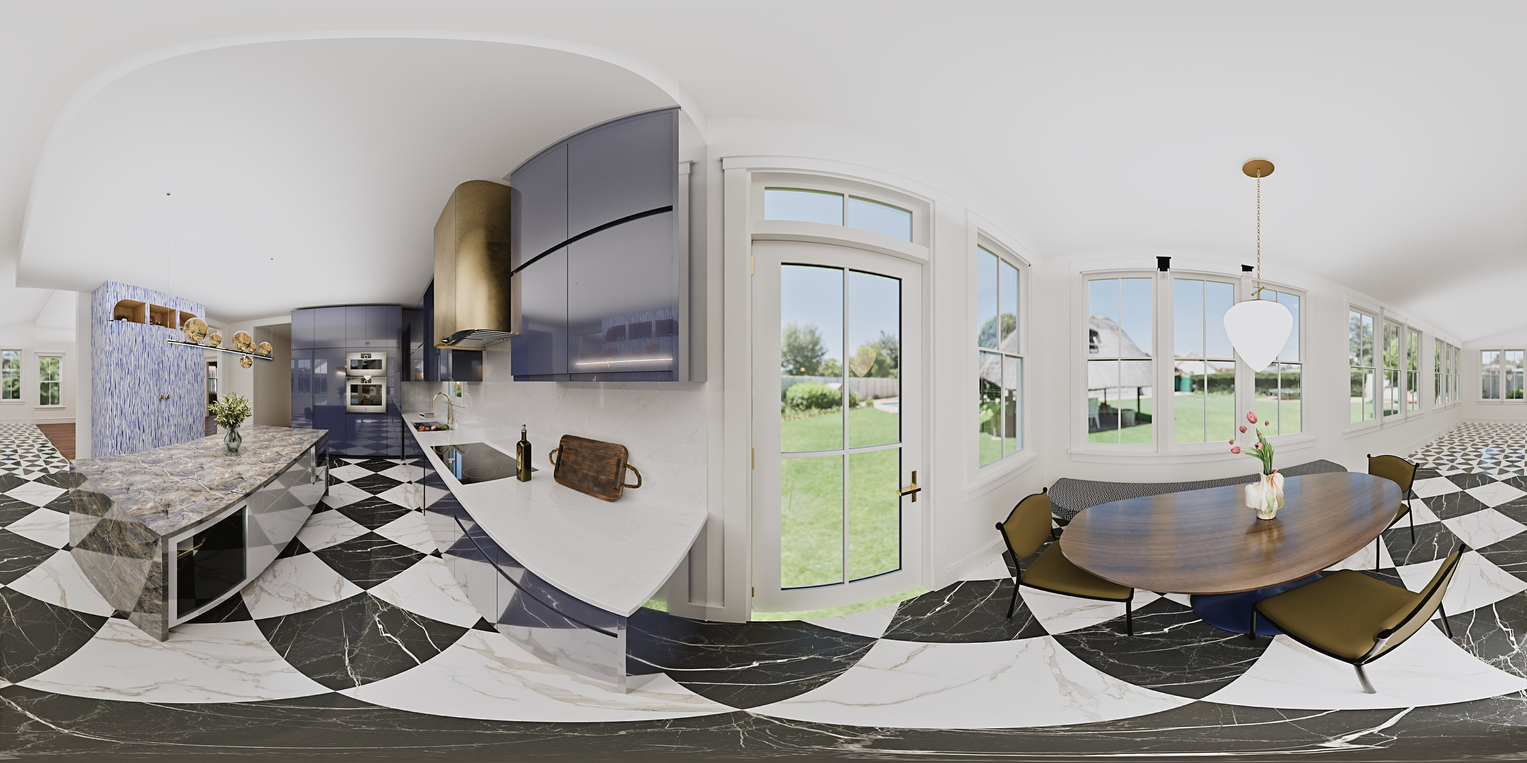
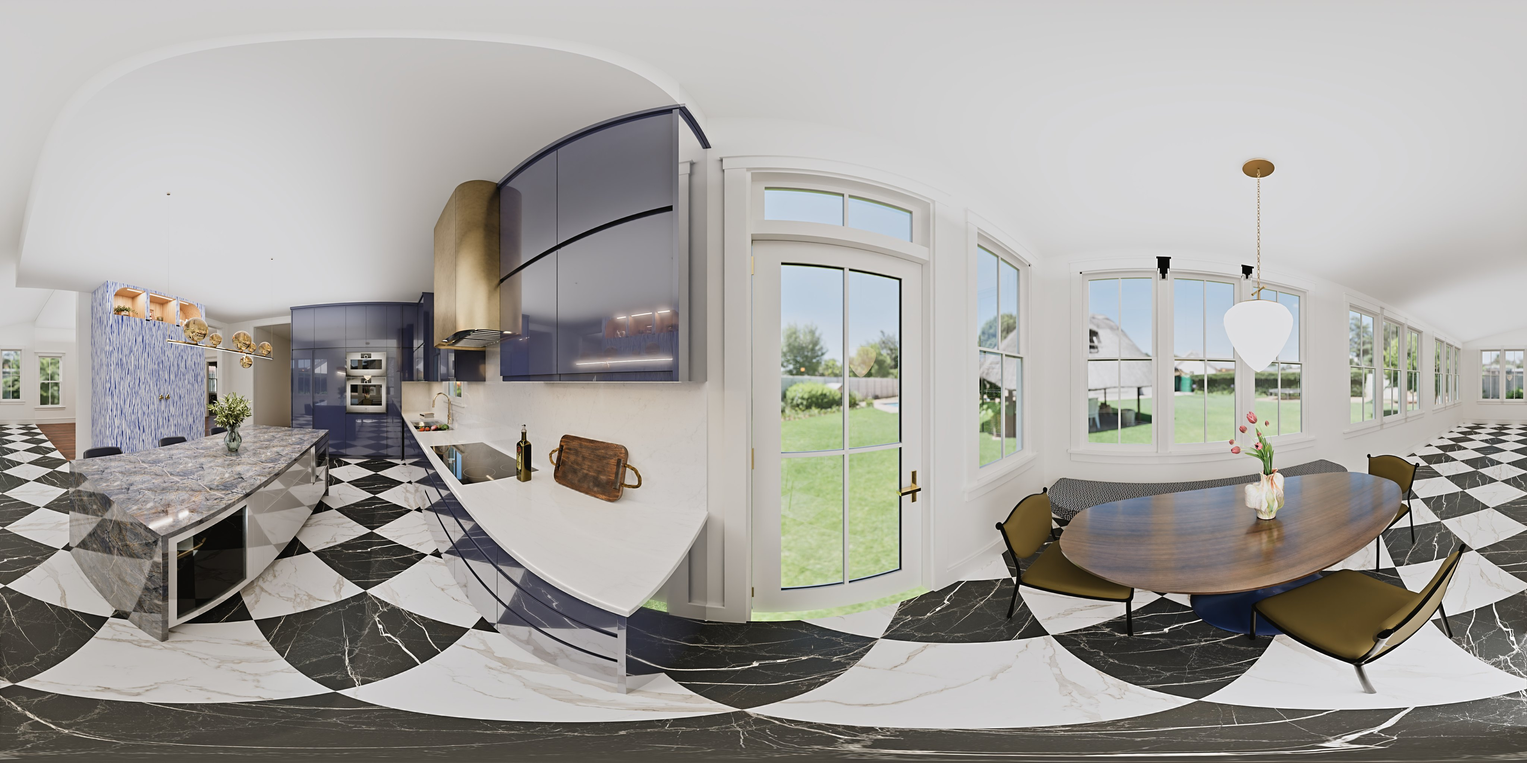
Add files via upload

diff --git a/tour.js b/tour.js
@@ -1,1 +1,1 @@
-window.TOUR = {"project": "629 Burdette St \u00b7 Kitchen", "default_node": "kitchen", "default_floor": "c_cobble", "default_doors": "closed", "floors": {"a_anabelle": "A - Anabelle St Laurent", "b_boldara": "B - Boldara Nero/Oro Checker", "c_cobble": "C - Cobble Brown"}, "doors": {"closed": "All closed", "all_open": "All appliances open"}, "client": {"name": "Maureen Stevens Design", "url": "https://www.maureenstevens.com/"}, "nodes": [{"id": "kitchen", "label": "Kitchen", "view": {"yaw": 55, "pitch": -8, "hfov": 105}, "links": [{"to": "island", "label": "Island", "yaw": 179.94, "pitch": -33.99}, {"to": "breakfast", "label": "Breakfast Nook", "yaw": 84.96, "pitch": -41.27}], "appliances": [{"id": "dishwasher", "label": "Dishwasher", "action": "toggle_doors:dishwasher_open", "yaw": -57.13, "pitch": -45.95, "visible": true}, {"id": "freezer", "label": "Freezer", "action": "toggle_doors:freezer_open", "yaw": -116.23, "pitch": -5.67, "visible": true}, {"id": "fridge", "label": "Refrigerator", "action": "toggle_doors:fridge_open", "yaw": -106.64, "pitch": -6.05, "visible": true}, {"id": "wine", "label": "Wine Fridge", "action": "toggle_doors:wine_open", "yaw": 119.89, "pitch": -44.9, "visible": true}], "panos": {"floor-a_anabelle__doors-closed": {"full": "pano_kitchen_floor-a_anabelle__doors-closed.jpg", "mobile": "pano_kitchen_floor-a_anabelle__doors-closed_m.jpg"}, "floor-a_anabelle__doors-all_open": {"full": "pano_kitchen_floor-a_anabelle__doors-all_open.jpg", "mobile": "pano_kitchen_floor-a_anabelle__doors-all_open_m.jpg"}, "floor-b_boldara__doors-closed": {"full": "pano_kitchen_floor-b_boldara__doors-closed.jpg", "mobile": "pano_kitchen_floor-b_boldara__doors-closed_m.jpg"}, "floor-b_boldara__doors-all_open": {"full": "pano_kitchen_floor-b_boldara__doors-all_open.jpg", "mobile": "pano_kitchen_floor-b_boldara__doors-all_open_m.jpg"}, "floor-c_cobble__doors-closed": {"full": "pano_kitchen_floor-c_cobble__doors-closed.jpg", "mobile": "pano_kitchen_floor-c_cobble__doors-closed_m.jpg"}, "floor-c_cobble__doors-all_open": {"full": "pano_kitchen_floor-c_cobble__doors-all_open.jpg", "mobile": "pano_kitchen_floor-c_cobble__doors-all_open_m.jpg"}}, "photos": [{"still": "Still_01_Hero", "label": "Island & range - hero", "yaw": 179.86, "pitch": -30.34}, {"still": "Still_02_Range", "label": "Sink-to-range run", "yaw": 0.0, "pitch": -34.97}, {"still": "Still_03_Sink_Window", "label": "Faucet & window", "yaw": -57.64, "pitch": -11.66}, {"still": "Still_05_Hood_Detail", "label": "Brass hood & cooktop", "yaw": 0.0, "pitch": 39.81}, {"still": "Still_09_Tall_Wall", "label": "Fridge & Gaggenau oven wall", "yaw": -106.57, "pitch": -5.03}, {"still": "Still_10_Nook_to_Kitchen", "label": "From the nook - whole kitchen", "yaw": 138.64, "pitch": -23.72}, {"still": "Still_15_Wardrobe", "label": "Wardrobe - full elevation", "yaw": -165.66, "pitch": 0.0}]}, {"id": "island", "label": "Island", "view": {"yaw": 0, "pitch": -6, "hfov": 100}, "links": [{"to": "kitchen", "label": "Kitchen", "yaw": -0.06, "pitch": -33.99}, {"to": "breakfast", "label": "Breakfast Nook", "yaw": 35.59, "pitch": -27.18}], "appliances": [{"id": "freezer", "label": "Freezer", "action": "toggle_doors:freezer_open", "yaw": -71.83, "pitch": -6.0, "visible": true}, {"id": "fridge", "label": "Refrigerator", "action": "toggle_doors:fridge_open", "yaw": -62.45, "pitch": -5.6, "visible": true}], "panos": {"floor-a_anabelle__doors-closed": {"full": "pano_island_floor-a_anabelle__doors-closed.jpg", "mobile": "pano_island_floor-a_anabelle__doors-closed_m.jpg"}, "floor-a_anabelle__doors-all_open": {"full": "pano_island_floor-a_anabelle__doors-all_open.jpg", "mobile": "pano_island_floor-a_anabelle__doors-all_open_m.jpg"}, "floor-b_boldara__doors-closed": {"full": "pano_island_floor-b_boldara__doors-closed.jpg", "mobile": "pano_island_floor-b_boldara__doors-closed_m.jpg"}, "floor-b_boldara__doors-all_open": {"full": "pano_island_floor-b_boldara__doors-all_open.jpg", "mobile": "pano_island_floor-b_boldara__doors-all_open_m.jpg"}, "floor-c_cobble__doors-closed": {"full": "pano_island_floor-c_cobble__doors-closed.jpg", "mobile": "pano_island_floor-c_cobble__doors-closed_m.jpg"}, "floor-c_cobble__doors-all_open": {"full": "pano_island_floor-c_cobble__doors-all_open.jpg", "mobile": "pano_island_floor-c_cobble__doors-all_open_m.jpg"}}, "photos": [{"still": "Still_03_Sink_Window", "label": "Faucet & window", "yaw": -25.68, "pitch": -6.03}, {"still": "Still_05_Hood_Detail", "label": "Brass hood & cooktop", "yaw": -0.05, "pitch": 10.04}, {"still": "Still_06_Stools_Detail", "label": "Curved stool backs", "yaw": -0.44, "pitch": -67.25}, {"still": "Still_09_Tall_Wall", "label": "Fridge & Gaggenau oven wall", "yaw": -62.56, "pitch": -4.65}, {"still": "Still_10_Nook_to_Kitchen", "label": "From the nook - whole kitchen", "yaw": 36.87, "pitch": -21.8}, {"still": "Still_15_Wardrobe", "label": "Wardrobe - full elevation", "yaw": -133.03, "pitch": 0.0}]}, {"id": "breakfast", "label": "Breakfast Nook", "view": {"yaw": 119, "pitch": -8, "hfov": 100}, "links": [{"to": "kitchen", "label": "Kitchen", "yaw": -95.04, "pitch": -41.27}, {"to": "island", "label": "Island", "yaw": -144.41, "pitch": -27.18}], "appliances": [{"id": "dishwasher", "label": "Dishwasher", "action": "toggle_doors:dishwasher_open", "yaw": -81.52, "pitch": -21.47, "visible": true}, {"id": "freezer", "label": "Freezer", "action": "toggle_doors:freezer_open", "yaw": -108.6, "pitch": -3.69, "visible": true}, {"id": "fridge", "label": "Refrigerator", "action": "toggle_doors:fridge_open", "yaw": -102.27, "pitch": -3.8, "visible": true}, {"id": "wine", "label": "Wine Fridge", "action": "toggle_doors:wine_open", "yaw": -127.98, "pitch": -43.43, "visible": true}], "panos": {"floor-a_anabelle__doors-closed": {"full": "pano_breakfast_floor-a_anabelle__doors-closed.jpg", "mobile": "pano_breakfast_floor-a_anabelle__doors-closed_m.jpg"}, "floor-a_anabelle__doors-all_open": {"full": "pano_breakfast_floor-a_anabelle__doors-all_open.jpg", "mobile": "pano_breakfast_floor-a_anabelle__doors-all_open_m.jpg"}, "floor-b_boldara__doors-closed": {"full": "pano_breakfast_floor-b_boldara__doors-closed.jpg", "mobile": "pano_breakfast_floor-b_boldara__doors-closed_m.jpg"}, "floor-b_boldara__doors-all_open": {"full": "pano_breakfast_floor-b_boldara__doors-all_open.jpg", "mobile": "pano_breakfast_floor-b_boldara__doors-all_open_m.jpg"}, "floor-c_cobble__doors-closed": {"full": "pano_breakfast_floor-c_cobble__doors-closed.jpg", "mobile": "pano_breakfast_floor-c_cobble__doors-closed_m.jpg"}, "floor-c_cobble__doors-all_open": {"full": "pano_breakfast_floor-c_cobble__doors-all_open.jpg", "mobile": "pano_breakfast_floor-c_cobble__doors-all_open_m.jpg"}}, "photos": [{"still": "Still_01_Hero", "label": "Island & range - hero", "yaw": -124.65, "pitch": -16.19}, {"still": "Still_02_Range", "label": "Sink-to-range run", "yaw": -67.94, "pitch": -17.73}, {"still": "Still_03_Sink_Window", "label": "Faucet & window", "yaw": -75.75, "pitch": -6.41}, {"still": "Still_04_Breakfast", "label": "Breakfast nook", "yaw": 118.61, "pitch": -25.59}, {"still": "Still_05_Hood_Detail", "label": "Brass hood & cooktop", "yaw": -75.19, "pitch": 15.85}, {"still": "Still_09_Tall_Wall", "label": "Fridge & Gaggenau oven wall", "yaw": -102.24, "pitch": -3.16}, {"still": "Still_10_Nook_to_Kitchen", "label": "From the nook - whole kitchen", "yaw": -145.75, "pitch": -22.88}, {"still": "Still_15_Wardrobe", "label": "Wardrobe - full elevation", "yaw": -141.45, "pitch": 0.0}]}], "stills": [{"id": "Still_01_Hero", "caption": "The Kitchen", "src": "still_Still_01_Hero.jpg", "thumb": "thumb_Still_01_Hero.jpg", "w": 2400, "h": 1600}, {"id": "Still_02_Range", "caption": "Sink to Range", "src": "still_Still_02_Range.jpg", "thumb": "thumb_Still_02_Range.jpg", "w": 2400, "h": 1600}, {"id": "Still_03_Sink_Window", "caption": "Workstation Sink", "src": "still_Still_03_Sink_Window.jpg", "thumb": "thumb_Still_03_Sink_Window.jpg", "w": 1920, "h": 2400}, {"id": "Still_04_Breakfast", "caption": "Breakfast Nook", "src": "still_Still_04_Breakfast.jpg", "thumb": "thumb_Still_04_Breakfast.jpg", "w": 1600, "h": 2400}, {"id": "Still_05_Hood_Detail", "caption": "Brass Hood", "src": "still_Still_05_Hood_Detail.jpg", "thumb": "thumb_Still_05_Hood_Detail.jpg", "w": 1920, "h": 2400}, {"id": "Still_06_Stools_Detail", "caption": "Bar Stools", "src": "still_Still_06_Stools_Detail.jpg", "thumb": "thumb_Still_06_Stools_Detail.jpg", "w": 1600, "h": 2400}, {"id": "Still_07_Aerial", "caption": "Overview", "src": "still_Still_07_Aerial.jpg", "thumb": "thumb_Still_07_Aerial.jpg", "w": 2400, "h": 1600}, {"id": "Still_08_Plan", "caption": "Plan View", "src": "still_Still_08_Plan.jpg", "thumb": "thumb_Still_08_Plan.jpg", "w": 2400, "h": 1600}, {"id": "Still_09_Tall_Wall", "caption": "Refrigerator & Ovens", "src": "still_Still_09_Tall_Wall.jpg", "thumb": "thumb_Still_09_Tall_Wall.jpg", "w": 1600, "h": 2400}, {"id": "Still_10_Nook_to_Kitchen", "caption": "From the Nook", "src": "still_Still_10_Nook_to_Kitchen.jpg", "thumb": "thumb_Still_10_Nook_to_Kitchen.jpg", "w": 2400, "h": 1600}, {"id": "Still_11_Fridge_Freezer_Open", "caption": "Refrigerator & Freezer", "src": "still_Still_11_Fridge_Freezer_Open.jpg", "thumb": "thumb_Still_11_Fridge_Freezer_Open.jpg", "w": 2400, "h": 1600}, {"id": "Still_12_Wine_Open", "caption": "Wine Fridge", "src": "still_Still_12_Wine_Open.jpg", "thumb": "thumb_Still_12_Wine_Open.jpg", "w": 1600, "h": 2400}, {"id": "Still_13_Dishwasher_Open", "caption": "Dishwasher", "src": "still_Still_13_Dishwasher_Open.jpg", "thumb": "thumb_Still_13_Dishwasher_Open.jpg", "w": 1600, "h": 2400}, {"id": "Still_14_Aerial_All_Open", "caption": "Overview - Appliances Open", "src": "still_Still_14_Aerial_All_Open.jpg", "thumb": "thumb_Still_14_Aerial_All_Open.jpg", "w": 2400, "h": 1600}, {"id": "Still_15_Wardrobe", "caption": "Wardrobe", "src": "still_Still_15_Wardrobe.jpg", "thumb": "thumb_Still_15_Wardrobe.jpg", "w": 1920, "h": 2400}]};
+window.TOUR = {"project": "629 Burdette St \u00b7 Kitchen", "default_node": "kitchen", "default_floor": "c_cobble", "default_doors": "closed", "floors": {"a_anabelle": "A - Anabelle St Laurent", "b_boldara": "B - Boldara Nero/Oro Checker", "c_cobble": "C - Cobble Brown"}, "doors": {"closed": "All closed", "all_open": "All appliances open"}, "client": {"name": "Maureen Stevens Design", "url": "https://www.maureenstevens.com/"}, "times": ["day", "night"], "nodes": [{"id": "kitchen", "label": "Kitchen", "view": {"yaw": 55, "pitch": -8, "hfov": 105}, "links": [{"to": "island", "label": "Island", "yaw": 179.94, "pitch": -33.99}, {"to": "breakfast", "label": "Breakfast Nook", "yaw": 84.96, "pitch": -41.27}], "appliances": [{"id": "dishwasher", "label": "Dishwasher", "action": "toggle_doors:dishwasher_open", "yaw": -57.13, "pitch": -45.95, "visible": true}, {"id": "freezer", "label": "Freezer", "action": "toggle_doors:freezer_open", "yaw": -116.23, "pitch": -5.67, "visible": true}, {"id": "fridge", "label": "Refrigerator", "action": "toggle_doors:fridge_open", "yaw": -106.64, "pitch": -6.05, "visible": true}, {"id": "wine", "label": "Wine Fridge", "action": "toggle_doors:wine_open", "yaw": 119.89, "pitch": -44.9, "visible": true}], "panos": {"floor-a_anabelle__doors-closed": {"full": "pano_kitchen_floor-a_anabelle__doors-closed.jpg", "mobile": "pano_kitchen_floor-a_anabelle__doors-closed_m.jpg", "night": {"full": "pano_kitchen_floor-a_anabelle__doors-closed_night.jpg", "mobile": "pano_kitchen_floor-a_anabelle__doors-closed_night_m.jpg"}}, "floor-a_anabelle__doors-all_open": {"full": "pano_kitchen_floor-a_anabelle__doors-all_open.jpg", "mobile": "pano_kitchen_floor-a_anabelle__doors-all_open_m.jpg", "night": {"full": "pano_kitchen_floor-a_anabelle__doors-all_open_night.jpg", "mobile": "pano_kitchen_floor-a_anabelle__doors-all_open_night_m.jpg"}}, "floor-b_boldara__doors-closed": {"full": "pano_kitchen_floor-b_boldara__doors-closed.jpg", "mobile": "pano_kitchen_floor-b_boldara__doors-closed_m.jpg", "night": {"full": "pano_kitchen_floor-b_boldara__doors-closed_night.jpg", "mobile": "pano_kitchen_floor-b_boldara__doors-closed_night_m.jpg"}}, "floor-b_boldara__doors-all_open": {"full": "pano_kitchen_floor-b_boldara__doors-all_open.jpg", "mobile": "pano_kitchen_floor-b_boldara__doors-all_open_m.jpg", "night": {"full": "pano_kitchen_floor-b_boldara__doors-all_open_night.jpg", "mobile": "pano_kitchen_floor-b_boldara__doors-all_open_night_m.jpg"}}, "floor-c_cobble__doors-closed": {"full": "pano_kitchen_floor-c_cobble__doors-closed.jpg", "mobile": "pano_kitchen_floor-c_cobble__doors-closed_m.jpg", "night": {"full": "pano_kitchen_floor-c_cobble__doors-closed_night.jpg", "mobile": "pano_kitchen_floor-c_cobble__doors-closed_night_m.jpg"}}, "floor-c_cobble__doors-all_open": {"full": "pano_kitchen_floor-c_cobble__doors-all_open.jpg", "mobile": "pano_kitchen_floor-c_cobble__doors-all_open_m.jpg", "night": {"full": "pano_kitchen_floor-c_cobble__doors-all_open_night.jpg", "mobile": "pano_kitchen_floor-c_cobble__doors-all_open_night_m.jpg"}}}, "photos": [{"still": "Still_01_Hero", "label": "Island & range - hero", "yaw": 179.86, "pitch": -30.34}, {"still": "Still_02_Range", "label": "Sink-to-range run", "yaw": 0.0, "pitch": -34.97}, {"still": "Still_03_Sink_Window", "label": "Faucet & window", "yaw": -57.64, "pitch": -11.66}, {"still": "Still_05_Hood_Detail", "label": "Brass hood & cooktop", "yaw": 0.0, "pitch": 39.81}, {"still": "Still_09_Tall_Wall", "label": "Fridge & Gaggenau oven wall", "yaw": -106.57, "pitch": -5.03}, {"still": "Still_10_Nook_to_Kitchen", "label": "From the nook - whole kitchen", "yaw": 138.64, "pitch": -23.72}, {"still": "Still_15_Wardrobe", "label": "Wardrobe - full elevation", "yaw": -165.66, "pitch": 0.0}]}, {"id": "island", "label": "Island", "view": {"yaw": 0, "pitch": -6, "hfov": 100}, "links": [{"to": "kitchen", "label": "Kitchen", "yaw": -0.06, "pitch": -33.99}, {"to": "breakfast", "label": "Breakfast Nook", "yaw": 35.59, "pitch": -27.18}], "appliances": [{"id": "freezer", "label": "Freezer", "action": "toggle_doors:freezer_open", "yaw": -71.83, "pitch": -6.0, "visible": true}, {"id": "fridge", "label": "Refrigerator", "action": "toggle_doors:fridge_open", "yaw": -62.45, "pitch": -5.6, "visible": true}], "panos": {"floor-a_anabelle__doors-closed": {"full": "pano_island_floor-a_anabelle__doors-closed.jpg", "mobile": "pano_island_floor-a_anabelle__doors-closed_m.jpg", "night": {"full": "pano_island_floor-a_anabelle__doors-closed_night.jpg", "mobile": "pano_island_floor-a_anabelle__doors-closed_night_m.jpg"}}, "floor-a_anabelle__doors-all_open": {"full": "pano_island_floor-a_anabelle__doors-all_open.jpg", "mobile": "pano_island_floor-a_anabelle__doors-all_open_m.jpg", "night": {"full": "pano_island_floor-a_anabelle__doors-all_open_night.jpg", "mobile": "pano_island_floor-a_anabelle__doors-all_open_night_m.jpg"}}, "floor-b_boldara__doors-closed": {"full": "pano_island_floor-b_boldara__doors-closed.jpg", "mobile": "pano_island_floor-b_boldara__doors-closed_m.jpg", "night": {"full": "pano_island_floor-b_boldara__doors-closed_night.jpg", "mobile": "pano_island_floor-b_boldara__doors-closed_night_m.jpg"}}, "floor-b_boldara__doors-all_open": {"full": "pano_island_floor-b_boldara__doors-all_open.jpg", "mobile": "pano_island_floor-b_boldara__doors-all_open_m.jpg", "night": {"full": "pano_island_floor-b_boldara__doors-all_open_night.jpg", "mobile": "pano_island_floor-b_boldara__doors-all_open_night_m.jpg"}}, "floor-c_cobble__doors-closed": {"full": "pano_island_floor-c_cobble__doors-closed.jpg", "mobile": "pano_island_floor-c_cobble__doors-closed_m.jpg", "night": {"full": "pano_island_floor-c_cobble__doors-closed_night.jpg", "mobile": "pano_island_floor-c_cobble__doors-closed_night_m.jpg"}}, "floor-c_cobble__doors-all_open": {"full": "pano_island_floor-c_cobble__doors-all_open.jpg", "mobile": "pano_island_floor-c_cobble__doors-all_open_m.jpg", "night": {"full": "pano_island_floor-c_cobble__doors-all_open_night.jpg", "mobile": "pano_island_floor-c_cobble__doors-all_open_night_m.jpg"}}}, "photos": [{"still": "Still_03_Sink_Window", "label": "Faucet & window", "yaw": -25.68, "pitch": -6.03}, {"still": "Still_05_Hood_Detail", "label": "Brass hood & cooktop", "yaw": -0.05, "pitch": 10.04}, {"still": "Still_09_Tall_Wall", "label": "Fridge & Gaggenau oven wall", "yaw": -62.56, "pitch": -4.65}, {"still": "Still_10_Nook_to_Kitchen", "label": "From the nook - whole kitchen", "yaw": 36.87, "pitch": -21.8}, {"still": "Still_15_Wardrobe", "label": "Wardrobe - full elevation", "yaw": -133.03, "pitch": 0.0}]}, {"id": "breakfast", "label": "Breakfast Nook", "view": {"yaw": 119, "pitch": -8, "hfov": 100}, "links": [{"to": "kitchen", "label": "Kitchen", "yaw": -95.04, "pitch": -41.27}, {"to": "island", "label": "Island", "yaw": -144.41, "pitch": -27.18}], "appliances": [{"id": "dishwasher", "label": "Dishwasher", "action": "toggle_doors:dishwasher_open", "yaw": -81.52, "pitch": -21.47, "visible": true}, {"id": "freezer", "label": "Freezer", "action": "toggle_doors:freezer_open", "yaw": -108.6, "pitch": -3.69, "visible": true}, {"id": "fridge", "label": "Refrigerator", "action": "toggle_doors:fridge_open", "yaw": -102.27, "pitch": -3.8, "visible": true}, {"id": "wine", "label": "Wine Fridge", "action": "toggle_doors:wine_open", "yaw": -127.98, "pitch": -43.43, "visible": true}], "panos": {"floor-a_anabelle__doors-closed": {"full": "pano_breakfast_floor-a_anabelle__doors-closed.jpg", "mobile": "pano_breakfast_floor-a_anabelle__doors-closed_m.jpg", "night": {"full": "pano_breakfast_floor-a_anabelle__doors-closed_night.jpg", "mobile": "pano_breakfast_floor-a_anabelle__doors-closed_night_m.jpg"}}, "floor-a_anabelle__doors-all_open": {"full": "pano_breakfast_floor-a_anabelle__doors-all_open.jpg", "mobile": "pano_breakfast_floor-a_anabelle__doors-all_open_m.jpg", "night": {"full": "pano_breakfast_floor-a_anabelle__doors-all_open_night.jpg", "mobile": "pano_breakfast_floor-a_anabelle__doors-all_open_night_m.jpg"}}, "floor-b_boldara__doors-closed": {"full": "pano_breakfast_floor-b_boldara__doors-closed.jpg", "mobile": "pano_breakfast_floor-b_boldara__doors-closed_m.jpg", "night": {"full": "pano_breakfast_floor-b_boldara__doors-closed_night.jpg", "mobile": "pano_breakfast_floor-b_boldara__doors-closed_night_m.jpg"}}, "floor-b_boldara__doors-all_open": {"full": "pano_breakfast_floor-b_boldara__doors-all_open.jpg", "mobile": "pano_breakfast_floor-b_boldara__doors-all_open_m.jpg", "night": {"full": "pano_breakfast_floor-b_boldara__doors-all_open_night.jpg", "mobile": "pano_breakfast_floor-b_boldara__doors-all_open_night_m.jpg"}}, "floor-c_cobble__doors-closed": {"full": "pano_breakfast_floor-c_cobble__doors-closed.jpg", "mobile": "pano_breakfast_floor-c_cobble__doors-closed_m.jpg", "night": {"full": "pano_breakfast_floor-c_cobble__doors-closed_night.jpg", "mobile": "pano_breakfast_floor-c_cobble__doors-closed_night_m.jpg"}}, "floor-c_cobble__doors-all_open": {"full": "pano_breakfast_floor-c_cobble__doors-all_open.jpg", "mobile": "pano_breakfast_floor-c_cobble__doors-all_open_m.jpg", "night": {"full": "pano_breakfast_floor-c_cobble__doors-all_open_night.jpg", "mobile": "pano_breakfast_floor-c_cobble__doors-all_open_night_m.jpg"}}}, "photos": [{"still": "Still_01_Hero", "label": "Island & range - hero", "yaw": -124.65, "pitch": -16.19}, {"still": "Still_02_Range", "label": "Sink-to-range run", "yaw": -67.94, "pitch": -17.73}, {"still": "Still_03_Sink_Window", "label": "Faucet & window", "yaw": -75.75, "pitch": -6.41}, {"still": "Still_04_Breakfast", "label": "Breakfast nook", "yaw": 118.61, "pitch": -25.59}, {"still": "Still_05_Hood_Detail", "label": "Brass hood & cooktop", "yaw": -75.19, "pitch": 15.85}, {"still": "Still_09_Tall_Wall", "label": "Fridge & Gaggenau oven wall", "yaw": -102.24, "pitch": -3.16}, {"still": "Still_10_Nook_to_Kitchen", "label": "From the nook - whole kitchen", "yaw": -145.75, "pitch": -22.88}, {"still": "Still_15_Wardrobe", "label": "Wardrobe - full elevation", "yaw": -141.45, "pitch": 0.0}]}], "stills": [{"id": "Still_01_Hero", "caption": "The Kitchen", "src": "still_Still_01_Hero.jpg", "thumb": "thumb_Still_01_Hero.jpg", "w": 2400, "h": 1600}, {"id": "Still_02_Range", "caption": "Sink to Range", "src": "still_Still_02_Range.jpg", "thumb": "thumb_Still_02_Range.jpg", "w": 2400, "h": 1600}, {"id": "Still_03_Sink_Window", "caption": "Workstation Sink", "src": "still_Still_03_Sink_Window.jpg", "thumb": "thumb_Still_03_Sink_Window.jpg", "w": 1920, "h": 2400}, {"id": "Still_04_Breakfast", "caption": "Breakfast Nook", "src": "still_Still_04_Breakfast.jpg", "thumb": "thumb_Still_04_Breakfast.jpg", "w": 1600, "h": 2400}, {"id": "Still_05_Hood_Detail", "caption": "Brass Hood", "src": "still_Still_05_Hood_Detail.jpg", "thumb": "thumb_Still_05_Hood_Detail.jpg", "w": 1920, "h": 2400}, {"id": "Still_06_Stools_Detail", "caption": "Bar Stools", "src": "still_Still_06_Stools_Detail.jpg", "thumb": "thumb_Still_06_Stools_Detail.jpg", "w": 1600, "h": 2400}, {"id": "Still_07_Aerial", "caption": "Overview", "src": "still_Still_07_Aerial.jpg", "thumb": "thumb_Still_07_Aerial.jpg", "w": 2400, "h": 1600}, {"id": "Still_08_Plan", "caption": "Plan View", "src": "still_Still_08_Plan.jpg", "thumb": "thumb_Still_08_Plan.jpg", "w": 2400, "h": 1600}, {"id": "Still_09_Tall_Wall", "caption": "Refrigerator & Ovens", "src": "still_Still_09_Tall_Wall.jpg", "thumb": "thumb_Still_09_Tall_Wall.jpg", "w": 1600, "h": 2400}, {"id": "Still_10_Nook_to_Kitchen", "caption": "From the Nook", "src": "still_Still_10_Nook_to_Kitchen.jpg", "thumb": "thumb_Still_10_Nook_to_Kitchen.jpg", "w": 2400, "h": 1600}, {"id": "Still_11_Fridge_Freezer_Open", "caption": "Refrigerator & Freezer", "src": "still_Still_11_Fridge_Freezer_Open.jpg", "thumb": "thumb_Still_11_Fridge_Freezer_Open.jpg", "w": 2400, "h": 1600}, {"id": "Still_12_Wine_Open", "caption": "Wine Fridge", "src": "still_Still_12_Wine_Open.jpg", "thumb": "thumb_Still_12_Wine_Open.jpg", "w": 1600, "h": 2400}, {"id": "Still_13_Dishwasher_Open", "caption": "Dishwasher", "src": "still_Still_13_Dishwasher_Open.jpg", "thumb": "thumb_Still_13_Dishwasher_Open.jpg", "w": 1600, "h": 2400}, {"id": "Still_14_Aerial_All_Open", "caption": "Overview - Appliances Open", "src": "still_Still_14_Aerial_All_Open.jpg", "thumb": "thumb_Still_14_Aerial_All_Open.jpg", "w": 2400, "h": 1600}, {"id": "Still_15_Wardrobe", "caption": "Wardrobe", "src": "still_Still_15_Wardrobe.jpg", "thumb": "thumb_Still_15_Wardrobe.jpg", "w": 1920, "h": 2400}]};

diff --git a/index.html b/index.html
@@ -166,7 +166,7 @@
 </section>
 
 <div class="title ui"><h2>629 Burdette St</h2><p>Kitchen · 360° tour</p></div>
-<div class="hint ui" id="hint">Drag to look around · circles move you · gold dots open the appliances · camera icons show photos</div>
+<div class="hint ui" id="hint">Drag to look around · circles move you · gold dots open the appliances · camera icons show photos · switch Day / Night below</div>
 <div class="loc-name" id="locname"></div>
 
 <div class="topbtns ui">
@@ -180,6 +180,7 @@
   <div class="row"><span class="lbl">Location</span><div class="seg" id="segNode"></div></div>
   <div class="row"><span class="lbl">Floor</span><div class="seg" id="segFloor"></div></div>
   <div class="row"><span class="lbl">Appliances</span><div class="seg" id="segDoors"></div></div>
+  <div class="row" id="rowTime"><span class="lbl">Lighting</span><div class="seg" id="segTime"></div></div>
 </nav>
 
 <a class="logo ui" id="logo" href="https://www.maureenstevens.com/" target="_blank" rel="noopener" aria-label="Maureen Stevens Design website">
@@ -217,20 +218,21 @@
 
   if (T.client && T.client.url) $('logo').href = T.client.url;
 
-  const S = {node:T.default_node, floor:T.default_floor, doors:T.default_doors};
+  const S = {node:T.default_node, floor:T.default_floor, doors:T.default_doors, time:'day'};
+  const TIMES = T.times || ['day'];
   const nodeById = Object.fromEntries(T.nodes.map(n=>[n.id,n]));
   const stills = T.stills || [];
   const stillIdx = Object.fromEntries(stills.map((s,i)=>[s.id,i]));
-  const sid = (n,f,d)=>`${n}|${f}|${d}`;
-  const url = (n,f,d)=>{const p=nodeById[n].panos[`floor-${f}__doors-${d}`]; return p ? (useMobile ? p.mobile : p.full) : null;};
+  const sid = (n,f,d,t)=>`${n}|${f}|${d}|${t}`;
+  const url = (n,f,d,t)=>{let p=nodeById[n].panos[`floor-${f}__doors-${d}`]; if(p && t==='night') p=p.night; return p ? (useMobile ? p.mobile : p.full) : null;};
 
   const ICON_ARROW = '<svg viewBox="0 0 24 24"><path d="M12 4l-8 8h5v8h6v-8h5z"/></svg>';
   const ICON_CAM   = '<svg viewBox="0 0 24 24"><path d="M4 8h3l2-2.5h6L17 8h3v11H4z"/><circle cx="12" cy="13.5" r="3.4"/></svg>';
   function tip(div, a){ div.classList.add(a.cls); div.innerHTML = (a.icon||'') + `<span class="tipx">${a.label}</span>`; }
 
   const scenes = {};
-  for (const n of T.nodes) for (const f of Object.keys(T.floors)) for (const d of Object.keys(T.doors)){
-    const u = url(n.id,f,d); if(!u) continue;
+  for (const n of T.nodes) for (const f of Object.keys(T.floors)) for (const d of Object.keys(T.doors)) for (const t of TIMES){
+    const u = url(n.id,f,d,t); if(!u) continue;
     const hs = [];
     for (const l of n.links) hs.push({pitch:l.pitch, yaw:l.yaw, type:'custom', createTooltipFunc:tip,
         createTooltipArgs:{cls:'hs-link', icon:ICON_ARROW, label:l.label}, clickHandlerFunc:()=>goNode(l.to)});
@@ -240,12 +242,12 @@
     for (const p of (n.photos||[])) if (p.still in stillIdx) hs.push({pitch:p.pitch, yaw:p.yaw, type:'custom', createTooltipFunc:tip,
         createTooltipArgs:{cls:'hs-cam', icon:ICON_CAM, label:'Photo · '+stills[stillIdx[p.still]].caption},
         clickHandlerFunc:()=>openGallery(stillIdx[p.still])});
-    scenes[sid(n.id,f,d)] = {type:'equirectangular', panorama:u, hfov:n.view.hfov||100,
+    scenes[sid(n.id,f,d,t)] = {type:'equirectangular', panorama:u, hfov:n.view.hfov||100,
                              yaw:n.view.yaw||0, pitch:n.view.pitch||0, hotSpots:hs};
   }
 
   const viewer = pannellum.viewer('pano', {
-    default:{firstScene:sid(S.node,S.floor,S.doors), sceneFadeDuration:800, autoLoad:true, showControls:false,
+    default:{firstScene:sid(S.node,S.floor,S.doors,S.time), sceneFadeDuration:800, autoLoad:true, showControls:false,
              compass:false, minHfov:45, maxHfov:118, friction:0.15, autoRotate:reduce?0:-2.2, autoRotateInactivityDelay:-1},
     scenes
   });
@@ -267,14 +269,15 @@
 
   function showLoc(label){ const el=$('locname'); el.textContent=label; el.classList.remove('show'); void el.offsetWidth; el.classList.add('show'); }
 
-  function load(n,f,d){
-    const id=sid(n,f,d); if(!scenes[id]) return;
+  function load(n,f,d,t){
+    const id=sid(n,f,d,t); if(!scenes[id]) return;
     const moving = n!==S.node;
-    S.node=n; S.floor=f; S.doors=d; paint();
+    S.node=n; S.floor=f; S.doors=d; S.time=t; paint();
     viewer.loadScene(id,'same','same','same');
     if(moving) setTimeout(()=>showLoc(nodeById[n].label), 500);
   }
-  const goNode=n=>load(n,S.floor,S.doors), setFloor=f=>load(S.node,f,S.doors), setDoors=d=>load(S.node,S.floor,d);
+  const goNode=n=>load(n,S.floor,S.doors,S.time), setFloor=f=>load(S.node,f,S.doors,S.time),
+        setDoors=d=>load(S.node,S.floor,d,S.time), setTime=t=>load(S.node,S.floor,S.doors,t);
 
   function seg(el, items, cur, fn){
     el.innerHTML='';
@@ -290,12 +293,14 @@
     seg($('segNode'), T.nodes.map(n=>[n.id,n.label]), S.node, goNode);
     seg($('segFloor'), fl, S.floor, setFloor);
     seg($('segDoors'), [['closed','Closed'],['all_open','Open']], S.doors, setDoors);
+    if (TIMES.length>1) seg($('segTime'), [['day','Day'],['night','Night']], S.time, setTime); else $('rowTime').style.display='none';
   }
   paint(); addEventListener('resize', paint);
 
   function prefetch(){
     setTimeout(()=>{ for (const f of Object.keys(T.floors)) for (const d of Object.keys(T.doors)){
-      const u=url(S.node,f,d); if(u){ const i=new Image(); i.src=u; } } }, 1500);
+      const u=url(S.node,f,d,S.time); if(u){ const i=new Image(); i.src=u; } }
+      for (const t of TIMES){ const u=url(S.node,S.floor,S.doors,t); if(u){ const i=new Image(); i.src=u; } } }, 1500);
   }
 
   $('btnFull').onclick = ()=>{ document.fullscreenElement ? document.exitFullscreen() : document.documentElement.requestFullscreen?.(); };

diff --git a/README.md b/README.md
@@ -1,4 +1,3 @@
-# 629 Burdette St · Kitchen — 360° tour
+# 629 Burdette St · Kitchen - 360° tour
 
-Interactive 360° tour + photo gallery. Upload the contents of this folder to a GitHub repo
-and enable **Settings → Pages → Deploy from branch → main / (root)**.
+Day / night interactive 360° tour + photo gallery (Maureen Stevens Design · visualisation MS3DSTUDIO).
